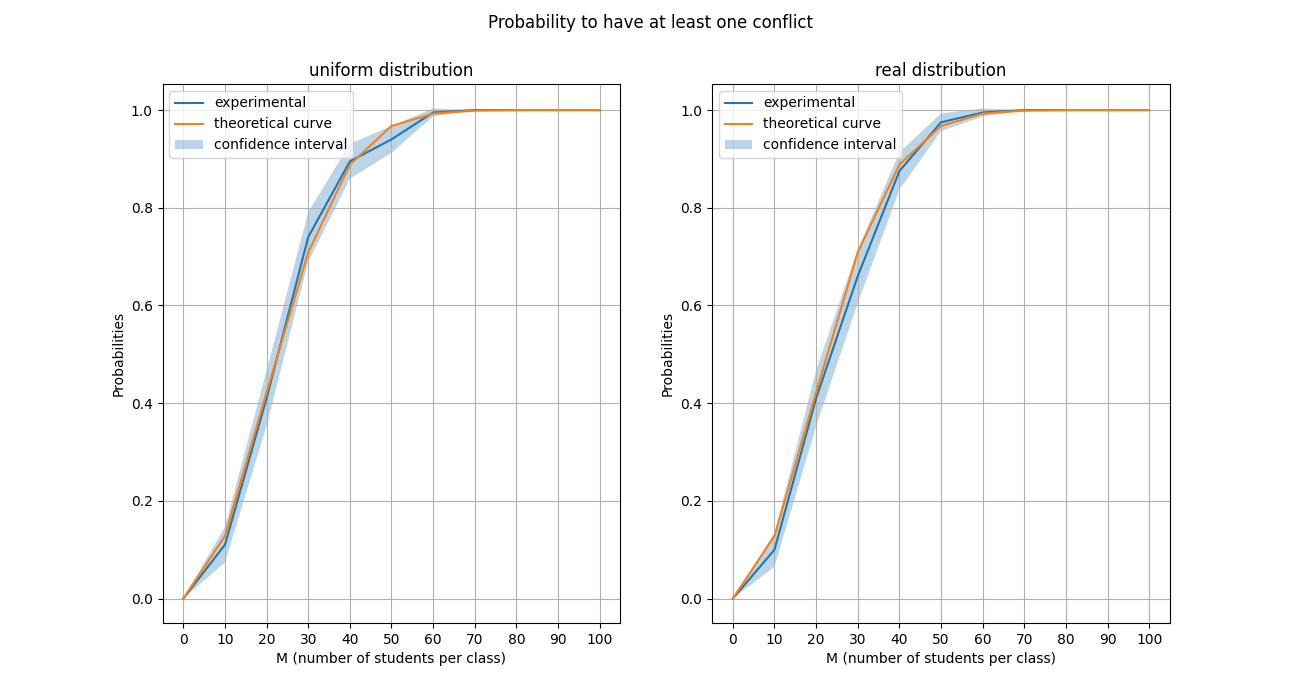
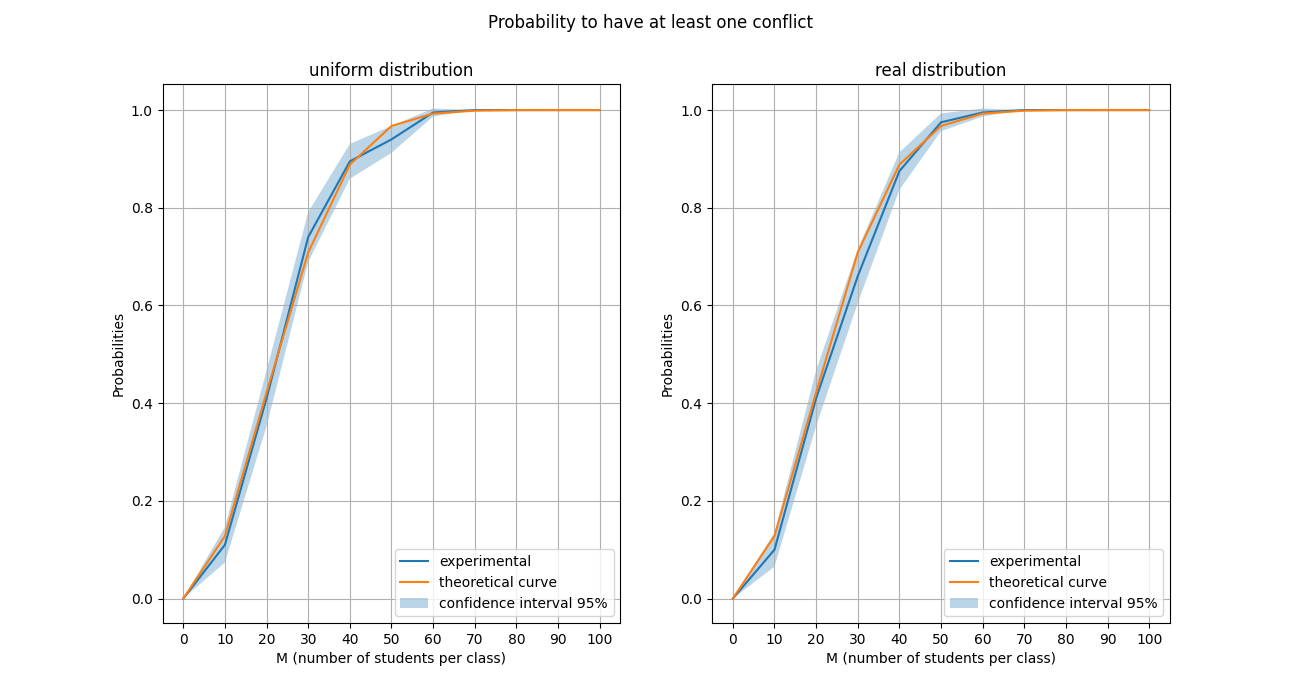
readme added

diff --git a/lab8/lab08.py b/lab8/lab08.py
@@ -13,42 +13,58 @@ def main():
     M = [0, 10,20,30,40,50,60,70,80,90,100]
     ITERATIONS = 200
     N = [100, 300, 500, 1000]
+    print(f"=====MAIN EXPERIMENT=====")
+    print("Input parameter:")
+    print(f"M (List of class sizes): {M}")
+    print(f"Iterations: {ITERATIONS}")
     # probabilities of the real distribution for each date
     probabilities = pd.read_csv(f"births_distribution/probabilities.csv")["probabilities"].tolist()
 
     # Average minimum number such that a conflict occurs - uniform distribution
     first_collisions_unif = list()
+    exp1_time_start = time()
     for _ in range(ITERATIONS):
         first_collisions_unif.append(expected_value(n = 366, distribution="uniform"))
 
     theoretical_avg = 1.25*sqrt(366)
     ci = confidence_interval_avg(first_collisions_unif, alpha = 0.015)
-    print(f"UNIFORM DISTRIBUTION (confidence interval) - lower bound : {ci[0]} theoretical value: {theoretical_avg}, upper bound: {ci[1]}")
-
+    exp1_time_end = time()
+    print(f"UNIFORM DISTRIBUTION (confidence interval 97%) - lower bound : {ci[0]} theoretical value: {theoretical_avg}, upper bound: {ci[1]}")
+    print(f"Simulation time for the first experimen with uniform distributiont: {exp1_time_end - exp1_time_start}")
+    print()
     # Average minimum number such that a conflict occurs - real distribution
     first_collisions_real = list()
+    exp2_time_start = time()
     for _ in range(ITERATIONS):
         first_collisions_real.append(expected_value(n = 366, probabilities = probabilities, distribution="real"))
 
     ci = confidence_interval_avg(first_collisions_real, alpha = 0.015)
-    print(f"UNIFORM DISTRIBUTION (confidence interval) - lower bound : {ci[0]} theoretical value: {theoretical_avg}, upper bound: {ci[1]}")
-
+    exp2_time_end = time()
+    print(f"REAL DISTRIBUTION (confidence interval 97%) - lower bound : {ci[0]} theoretical value: {theoretical_avg}, upper bound: {ci[1]}")
+    print(f"Simulation time for the first experiment with real distribution: {exp2_time_end - exp2_time_start}")
+    print()
     # M VS Probability of conflict - uniform distribution
     tmp_unif = list()
     theor_vals = list()
+    exp3_time_start = time()
     for m in M:
         theor_vals.append(1-exp(-(m**2)/(2*365)))
         p = probability(n = 366, m = m, iterations = ITERATIONS, distribution="uniform")
         tmp_unif.append(p)
-
-
+    exp3_time_end = time()
+    print(f"Simulation time for the second experiment with uniform distribution: {exp3_time_end - exp3_time_start}")
+    print()
     # M VS Probability of conflict - real distribution
     tmp_real = list()
     theor_vals = list()
+    exp4_time_start = time()
     for m in M:
         theor_vals.append(1-exp(-(m**2)/(2*365)))
         p = probability(n = 366, m = m, iterations = ITERATIONS, probabilities=probabilities, distribution="real")
         tmp_real.append(p)
+    exp4_time_end = time()
+    print(f"Simulation time for the second experiment with real distribution: {exp4_time_end - exp4_time_start}")
+
     
     fig, (ax1, ax2) = plt.subplots(1, 2, figsize = (13,7))
     fig.suptitle("Probability to have at least one conflict")
@@ -61,8 +77,15 @@ def main():
     # for what concernes the average we will consider only the uniform distribution case because we so not have the 
     # real distribution for n != 365
     # Average minimum number such that a conflict occurs - uniform distribution
+    print()
+    print(f"=====EXTENSION=====")
+    print("Input parameter:")
+    print(f"M (List of class sizes): {M}")
+    print(f"Iterations: {ITERATIONS}")
+    print(f"N (list of class possible extractions): {N}")
     m_lists = list()
     theor_avg_list = list()
+    exp5_time_start = time()
     for n in N:
         first_collisions_unif_var = list()
         for _ in range(ITERATIONS):
@@ -85,7 +108,10 @@ def main():
             tmp_unif_var.append(p)
         all_p.append(tmp_unif_var)
         all_theor.append(theor_vals_var)
-    
+    exp5_time_end = time()
+    print(f"Simulation time for the general case of the birthday paradox: {exp5_time_end - exp5_time_start}")
+    print()
+    print(f"Time of the whole simulation: {exp5_time_end + exp4_time_end + exp3_time_end + exp2_time_end + exp1_time_end - exp5_time_start - exp4_time_start - exp3_time_start- exp2_time_start - exp1_time_start}")
     fig, ax = plt.subplots(1, 1, figsize = (13,7))
     fig.suptitle("Probability to have at least one conflict")
     plot_prob_var(ax, all_p, M, all_theor, ITERATIONS, N)
@@ -93,6 +119,7 @@ def main():
     fig.show()
 
 if __name__ == '__main__':
+
     main()
 
 # ASSUMPTIONS

diff --git a/lab8/simulation.py b/lab8/simulation.py
@@ -94,7 +94,7 @@ def plot_prob(ax,
     ax.plot(M,probs, label= 'experimental')
     lower_bound, upper_bound = confidence_interval_prob(probs, iterations, alpha=alpha)
     ax.plot(M, theor_values, label = "theoretical curve")
-    ax.fill_between(M,lower_bound,upper_bound,alpha=.3, label = "confidence interval")
+    ax.fill_between(M,lower_bound,upper_bound,alpha=.3, label = "confidence interval 95%")
     ax.set_xlabel("M (number of students per class)")
     ax.set_ylabel("Probabilities")
     ax.set_xticks(np.arange(min(M), max(M)+1, 10.0))
@@ -167,8 +167,18 @@ def from_data_to_probs(filename):
     # frequentist probability
     probabilities = total_per_date["births"].apply(lambda x: x/total)
     #print(probabilities)
+    
+    fig, ax = plt.subplots(1, 1, figsize = (13,7))
+    fig.suptitle("Probability istogram")
     plt.bar(range(0,366), probabilities.values)
-    plt.show()
+    ax.set_xlabel("Day in a year")
+    ax.set_ylabel("Probabilities")
+    ax.set_xticks(np.arange(0, 366, 20.0))
+    #ax.set_title(f'Number of possible extractions VS Conflict probabilities')
+    ax.legend()
+    ax.grid()
+    fig.savefig("graphs/Probability distribution")
+    fig.show()
 
 
     with open("births_distribution/probabilities.csv", "w") as csf:
